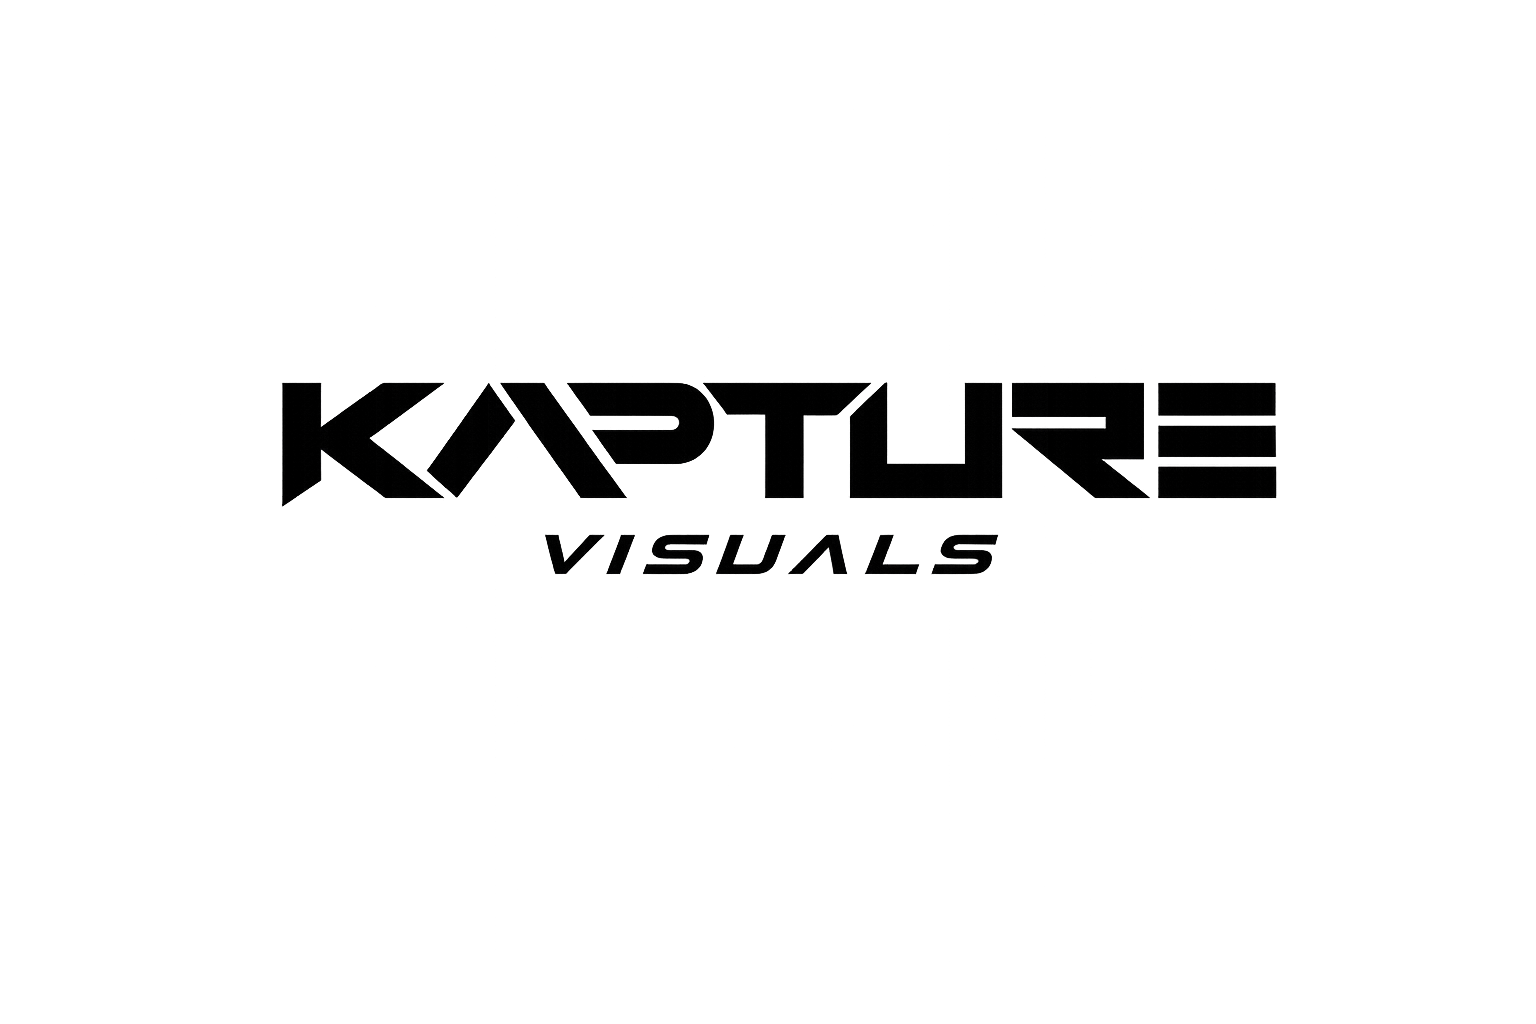
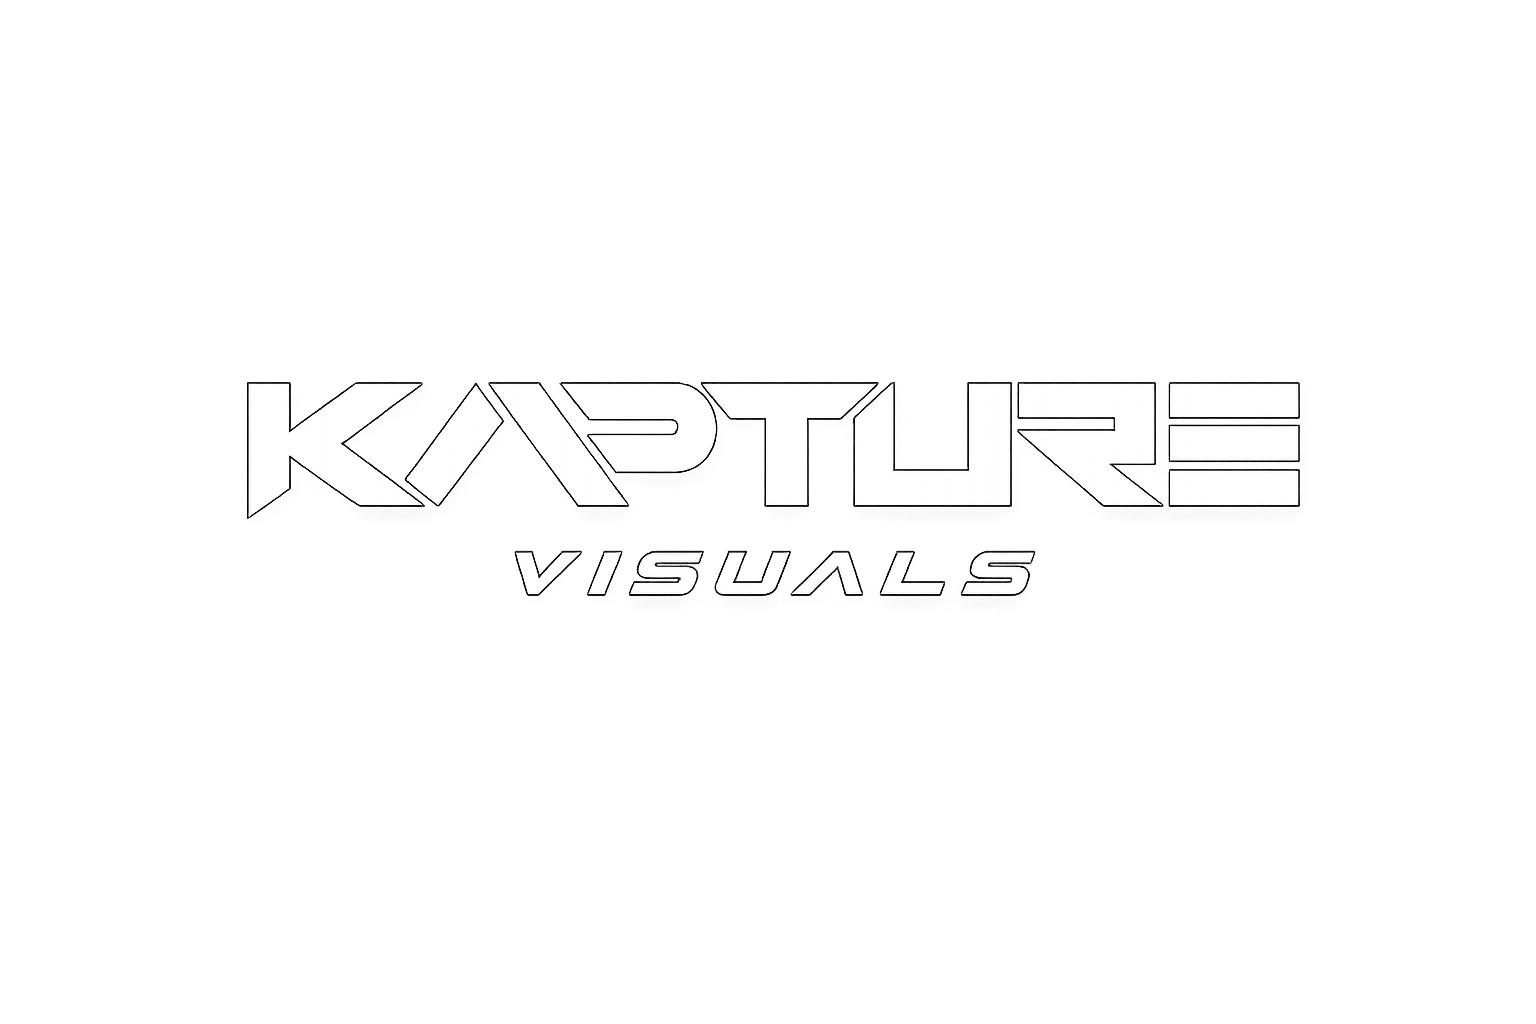
Improve thank you page design

Changed region(s): [[0.1562, 0.375, 0.8438, 0.5938]]

diff --git a/public/thank-you.html b/public/thank-you.html
@@ -27,7 +27,7 @@
 
     .container {
       text-align: center;
-      max-width: 700px;
+      max-width: 900px;
       padding: 40px;
     }
 
@@ -37,7 +37,7 @@
     }
 
     h1 {
-      font-size: 2.5rem;
+      font-size: 2rem;
       font-weight: 600;
       letter-spacing: -0.03em;
       margin-bottom: 24px;
@@ -88,9 +88,9 @@
     }
 
     .logo {
-        width: 260px;
+        width: 450px;
         height: auto;
-        margin-bottom: 50px;
+        margin-top: 45px;
     }
   </style>
 </head>
@@ -122,6 +122,12 @@
       Follow on Instagram
     </a>
   </div>
+
+  <img
+    src="/images/thank-you.png"
+    alt="Kapture Visuals"
+    class="logo"
+    />
 
 </body>
 </html>
